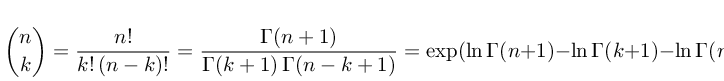
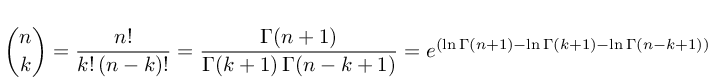
updating image

diff --git a/imgs/gbincoeff.tex b/imgs/gbincoeff.tex
@@ -1,1 +1,1 @@
-{n \choose k} = \frac{n!}{k!\,(n-k)!} = \frac{\Gamma(n+1)}{\Gamma(k+1)\,\Gamma(n-k+1)} = \exp(\ln\Gamma(n+1)-\ln\Gamma(k+1)-\ln\Gamma(n-k+1))
+{n \choose k} = \frac{n!}{k!\,(n-k)!} = \frac{\Gamma(n+1)}{\Gamma(k+1)\,\Gamma(n-k+1)} = e^{(\ln\Gamma(n+1)-\ln\Gamma(k+1)-\ln\Gamma(n-k+1))}
